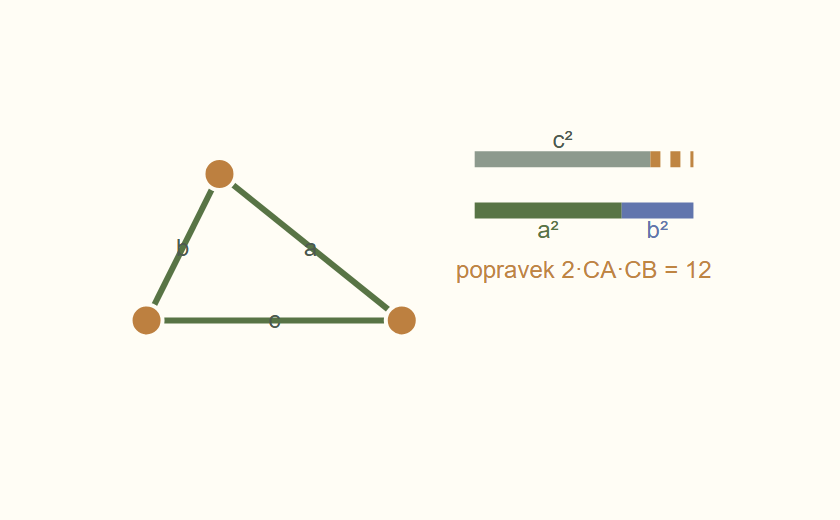
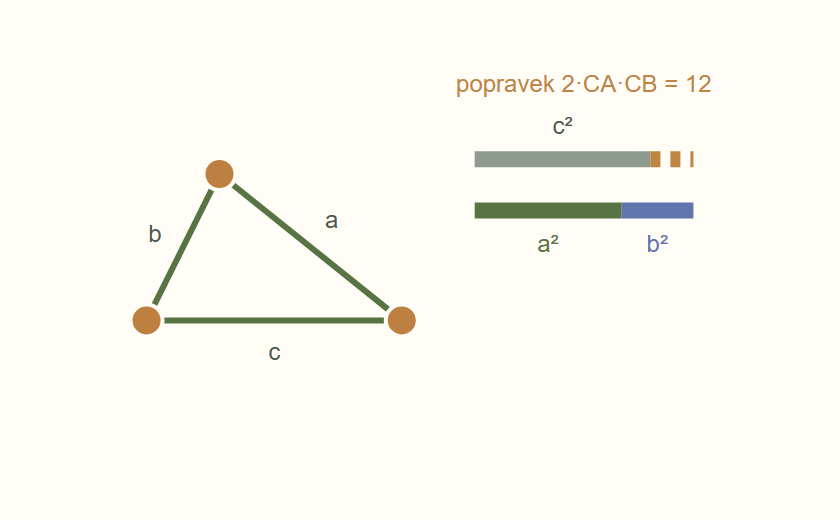
fix: triangle-solver side names stand beside their sides
Each side name sits at a fixed pixel gap outside its side's midpoint; the
bar names and the correction caption are offset in pixels and no longer
overlap at 390 px. Trigonometry cards recaptured (unit-circle cards differ
in bytes only).

Claude-Session: https://claude.ai/code/session_01UfEZWPAJjUDrtsi1qRQ28P

diff --git a/src/graphs/trig/TriangleSolverGraph.tsx b/src/graphs/trig/TriangleSolverGraph.tsx
@@ -54,6 +54,31 @@ export const VERTEX_Y_MIN = FIXED_VIEW[3] + VERTEX_MARGIN;
 export const VERTEX_Y_MAX = FIXED_VIEW[1] - VERTEX_MARGIN;
 const clampVertexCoordinate = (axis: "x" | "y", value: number): number =>
     axis === "x" ? Math.min(VERTEX_X_MAX, Math.max(VERTEX_X_MIN, value)) : Math.min(VERTEX_Y_MAX, Math.max(VERTEX_Y_MIN, value));
+/** Pixels from a bar row to the centre of its name (half bar 4, gap 3, half glyph box 9) and from that name to the caption above it. */
+const BAR_NAME_OFFSET = 17;
+const BAR_CAPTION_STEP = 21;
+type Xy = {readonly x: number; readonly y: number};
+/** Side names are 15 px text: half a glyph box, plus a fixed clearance from the side line. */
+const SIDE_NAME_HALF_WIDTH = 5;
+const SIDE_NAME_HALF_HEIGHT = 9;
+const SIDE_NAME_GAP = 7;
+/**
+ * Where the name of side p-q goes: the side's midpoint moved outward (away from the opposite vertex `r`) along its normal by a fixed pixel gap
+ * plus the text box's half extent in that direction, so the line never touches the letter at any slope. Returns user coordinates.
+ */
+export function sideNamePlace(p: Xy, q: Xy, r: Xy, unitX: number, unitY: number): Xy {
+    const mx = (p.x + q.x) / 2;
+    const my = (p.y + q.y) / 2;
+    const dx = (q.x - p.x) * unitX;
+    const dy = -(q.y - p.y) * unitY;
+    const length = Math.hypot(dx, dy);
+    if (length === 0) return {x: mx, y: my};
+    let nx = -dy / length;
+    let ny = dx / length;
+    if (nx * (mx - r.x) * unitX + ny * -(my - r.y) * unitY < 0) { nx = -nx; ny = -ny; }
+    const distance = SIDE_NAME_GAP + Math.abs(nx) * SIDE_NAME_HALF_WIDTH + Math.abs(ny) * SIDE_NAME_HALF_HEIGHT;
+    return {x: mx + (nx * distance) / unitX, y: my - (ny * distance) / unitY};
+}
 /** The SSA ray extends this far past the largest solved side and past the circle about C; the solve view pads the drawing by 1. */
 export const RAY_OVERSHOOT = 2;
 /** The colours of the solid circumcircle and of the SSA arc about C, which the legend states. */
@@ -369,10 +394,11 @@ export class TriangleSolverGraph extends BaseGraph<TriangleSolverGraphState, Tri
         segment(hB, hC, GraphPalette.primaryCurve, 3, 0, inGeometry);
         segment(hC, hA, GraphPalette.primaryCurve, 3, 0, inGeometry);
         segment(hA, hB, GraphPalette.primaryCurve, 3, 0, inGeometry);
-        const mid = (p: Vertex, q: Vertex, axis: "x" | "y"): Place => () => (this.state[p][axis] + this.state[q][axis]) / 2;
-        label(mid("B", "C", "x"), mid("B", "C", "y"), () => "a", GraphPalette.label, inGeometry);
-        label(mid("C", "A", "x"), mid("C", "A", "y"), () => "b", GraphPalette.label, inGeometry);
-        label(mid("A", "B", "x"), mid("A", "B", "y"), () => "c", GraphPalette.label, inGeometry);
+        const sideName = (p: Vertex, q: Vertex, r: Vertex, axis: "x" | "y"): Place => () =>
+            sideNamePlace(this.state[p], this.state[q], this.state[r], this.board.unitX, this.board.unitY)[axis];
+        label(sideName("B", "C", "A", "x"), sideName("B", "C", "A", "y"), () => "a", GraphPalette.label, inGeometry);
+        label(sideName("C", "A", "B", "x"), sideName("C", "A", "B", "y"), () => "b", GraphPalette.label, inGeometry);
+        label(sideName("A", "B", "C", "x"), sideName("A", "B", "C", "y"), () => "c", GraphPalette.label, inGeometry);
 
         // The circumcircle, the diameter B A' and the auxiliary triangle B A' C (circle mode, exact centre and antipode).
         const centre = hidden(() => this.proper()?.sine.circumcentre.x.toNumber() ?? 0, () => this.proper()?.sine.circumcentre.y.toNumber() ?? 0);
@@ -412,11 +438,13 @@ export class TriangleSolverGraph extends BaseGraph<TriangleSolverGraphState, Tri
         const corrFrom = hidden(() => BAR_X + Math.min(squares().c2, squares().a2 + squares().b2) * scale(), () => shorterRow());
         const corrTo = hidden(() => BAR_X + Math.max(squares().c2, squares().a2 + squares().b2) * scale(), () => shorterRow());
         segment(corrFrom, corrTo, GraphPalette.constructionAccent, 8, 2, () => barsDrawn() && squares().corr !== 0);
-        label(() => BAR_X + (squares().c2 * scale()) / 2, () => BAR_ROW_C + 0.55, () => "c²", GraphPalette.label, barsDrawn);
-        label(() => BAR_X + (squares().a2 * scale()) / 2, () => BAR_ROW_AB - 0.55, () => "a²", GraphPalette.primaryCurve, barsDrawn);
-        label(() => BAR_X + ((squares().a2 + squares().b2 / 2) * scale()), () => BAR_ROW_AB - 0.55, () => "b²", GraphPalette.comparisonCurve, barsDrawn);
-        label(() => BAR_X + 3, () => BAR_ROW_AB - 1.6, () => `${t("triangle_solver_bar_correction")} = ${signed(this.proper()?.cosine.correction ?? 0n)}`,
-            GraphPalette.constructionAccent, barsDrawn);
+        // Bar texts keep pixel gaps from the bars (8 px thick): the names hug them, the correction caption stacks above the c² name.
+        const px = (pixels: number): number => pixels / this.board.unitY;
+        label(() => BAR_X + (squares().c2 * scale()) / 2, () => BAR_ROW_C + px(BAR_NAME_OFFSET), () => "c²", GraphPalette.label, barsDrawn);
+        label(() => BAR_X + (squares().a2 * scale()) / 2, () => BAR_ROW_AB - px(BAR_NAME_OFFSET), () => "a²", GraphPalette.primaryCurve, barsDrawn);
+        label(() => BAR_X + ((squares().a2 + squares().b2 / 2) * scale()), () => BAR_ROW_AB - px(BAR_NAME_OFFSET), () => "b²", GraphPalette.comparisonCurve, barsDrawn);
+        label(() => BAR_X + BAR_LENGTH / 2, () => BAR_ROW_C + px(BAR_NAME_OFFSET + BAR_CAPTION_STEP),
+            () => `${t("triangle_solver_bar_correction")} = ${signed(this.proper()?.cosine.correction ?? 0n)}`, GraphPalette.constructionAccent, barsDrawn);
 
         // ---- solve mode: the solved triangle(s), and for SSA the height, the ray and the circle of radius a around C
         const point = (index: number, name: "A" | "B" | "C"): Place[] => {

diff --git a/src/graphs/trig/TriangleSolverGraph.test.tsx b/src/graphs/trig/TriangleSolverGraph.test.tsx
@@ -9,7 +9,7 @@ import {enterNumber} from '../../inputs/testEntry';
 import {appStorage} from '../../storage/appStorage';
 import {GraphPalette} from '../styles/GraphPalette';
 import {
-    BAR_ROW_AB, BAR_ROW_C, BAR_X, HANDLE_TOUCH_RADIUS, HIT_SLACK, measureDrawn, RAY_OVERSHOOT, TriangleSolverGraph, VERTEX_BIG_STEP, VERTEX_STEP,
+    BAR_ROW_AB, BAR_ROW_C, BAR_X, HANDLE_TOUCH_RADIUS, HIT_SLACK, measureDrawn, RAY_OVERSHOOT, sideNamePlace, TriangleSolverGraph, VERTEX_BIG_STEP, VERTEX_STEP,
     VERTEX_X_MAX, VERTEX_X_MIN, VERTEX_Y_MAX, VERTEX_Y_MIN,
 } from './TriangleSolverGraph';
 
@@ -552,5 +552,69 @@ describe('a replaced scene frames the solve data only when it brings no view of 
         expect(graph.selectedPresetId).toBe('bare');
         expect(graph.state.mode).toBe('solve');
         expect(boxOf(graph)).toEqual(framed);
+    });
+});
+
+describe('the side names a, b, c sit beside their sides, outside the triangle', () => {
+    type Pt = {x: number; y: number};
+    /** Pixel distance from a point to a segment, and which side of the line it lies on relative to a reference point. */
+    const toPixels = (p: Pt, board: JXG.Board): Pt => ({x: p.x * board.unitX, y: -p.y * board.unitY});
+    const distanceToSegment = (p: Pt, a: Pt, b: Pt) => {
+        const t = Math.max(0, Math.min(1, ((p.x - a.x) * (b.x - a.x) + (p.y - a.y) * (b.y - a.y)) / (((b.x - a.x) ** 2 + (b.y - a.y) ** 2) || 1)));
+        return Math.hypot(p.x - a.x - t * (b.x - a.x), p.y - a.y - t * (b.y - a.y));
+    };
+    const nameAt = (graph: Observed, name: string): Pt => {
+        const text = objects(graph).find(o => o.elType === 'text' && visible(o) && (o as unknown as {plaintext: string}).plaintext === name) as unknown as JXG.Text;
+        return {x: text.X(), y: text.Y()};
+    };
+    const clearOfSide = (graph: Observed, name: string, p: Pt, q: Pt, r: Pt) => {
+        const board = graph.liveBoard();
+        const at = toPixels(nameAt(graph, name), board);
+        const [a, b, other] = [toPixels(p, board), toPixels(q, board), toPixels(r, board)];
+        // the 15 px letter is about 10 x 18 px: its nearest corner must clear the line by at least 4 px
+        expect(distanceToSegment(at, a, b)).toBeGreaterThanOrEqual(5 + 4);
+        const cross = (v: Pt) => (b.x - a.x) * (v.y - a.y) - (b.y - a.y) * (v.x - a.x);
+        expect(Math.sign(cross(at))).toBe(-Math.sign(cross(other)));
+    };
+
+    test.each([
+        ['the default triangle', {A: {x: 0, y: 0}, B: {x: 7, y: 0}, C: {x: 2, y: 4}}],
+        ['an obtuse triangle', {A: {x: 0, y: 0}, B: {x: 6, y: 1}, C: {x: -2, y: 3}}],
+        ['a very flat triangle', {A: {x: 0, y: 0}, B: {x: 7, y: 1}, C: {x: 3, y: 1}}],
+    ])('%s', (_label, vertices) => {
+        const {graph} = mountGraph();
+        solve(graph, vertices);
+        const {A, B, C} = vertices;
+        clearOfSide(graph, 'a', B, C, A);
+        clearOfSide(graph, 'b', C, A, B);
+        clearOfSide(graph, 'c', A, B, C);
+    });
+
+    test('the placement is the midpoint moved outward by a pixel distance that does not depend on the scale', () => {
+        const p = {x: 0, y: 0};
+        const q = {x: 4, y: 0};
+        const r = {x: 1, y: 3};
+        const below = sideNamePlace(p, q, r, 20, 20);
+        expect(below.x).toBeCloseTo(2, 6);
+        expect(below.y).toBeLessThan(0);
+        expect(sideNamePlace(p, q, r, 40, 40).y * 40).toBeCloseTo(below.y * 20, 6);
+    });
+});
+
+describe('the bar texts keep clear of the bars and of each other', () => {
+    const textY = (graph: Observed, match: (plain: string) => boolean) => {
+        const text = objects(graph).find(o => o.elType === 'text' && visible(o) && match((o as unknown as {plaintext: string}).plaintext)) as unknown as JXG.Text;
+        return text.Y() * graph.liveBoard().unitY;
+    };
+    test('the c² name is above its bar and the correction caption above the name, by whole text heights', () => {
+        const {graph} = mountGraph();
+        const rowC = BAR_ROW_C * graph.liveBoard().unitY;
+        const rowAB = BAR_ROW_AB * graph.liveBoard().unitY;
+        const c2 = textY(graph, p => p === 'c²');
+        const caption = textY(graph, p => p.includes('=') && p.includes('CA'));
+        expect(c2 - rowC).toBeGreaterThanOrEqual(13);
+        expect(caption - c2).toBeGreaterThanOrEqual(18);
+        expect(rowAB - textY(graph, p => p === 'a²')).toBeGreaterThanOrEqual(13);
+        expect(rowAB - textY(graph, p => p === 'b²')).toBeGreaterThanOrEqual(13);
     });
 });

diff --git a/docs/reviews/feature-streams/families-prep/notes/trig-f5.md b/docs/reviews/feature-streams/families-prep/notes/trig-f5.md
@@ -6,3 +6,12 @@
 - Frames viewed: TR1 circle with orange point at (1, 0), blue radius, green sine trace from 1.7; TR2 at 30 degrees with cross, plus and diamond mirror images and dashed link; TR3 and TR4 identical triangle plus two bars and correction text (no axes).
 - Alt text avoids `\sin`/`^2` LaTeX (mathAltText cannot render them) and states no first-step answer.
 - Preview server on 4519 stopped; port closed. Logs: `.command-logs/trig-f5/`.
+
+## Label pass
+
+- Defect: side names a, b, c were drawn on the side midpoints (line struck through the letter); on the 390 px board the "popravek" caption overlapped the B handle and the a2 / b2 names.
+- Fix in `TriangleSolverGraph.tsx`: `sideNamePlace` moves each name from the midpoint outward (away from the opposite vertex) along the normal by a fixed 7 px gap plus the letter box half extent along that direction, computed from `board.unitX/unitY` so drags and resizes keep it. Bar names use pixel gaps (17 px) from the 8 px bars; the correction caption moved above the c2 name (21 px step), clear of the triangle and B at 390.
+- Tests (`TriangleSolverGraph.test.tsx`): side names clear of their side and opposite the third vertex (default, obtuse, very flat); bar names and caption stacking. Observed red with midpoint placement and with the caption step reversed, green after.
+- Vertex names A, B, C, "h" and the SSA labels were viewed at 1366 and 390 (sides mode) and showed no touching; solve/circle mode labels were not re-screenshotted, and no mouse drag was run (placement is state driven and unit-tested).
+- Recapture: the two triangle-solver cards changed as intended; the two unit-circle PNGs differ in bytes only (manifest hashes), visually identical on viewing (capture noise, source untouched).
+- Logs: `.command-logs/label-pass/trigonometry/`; preview on 4519 stopped.
